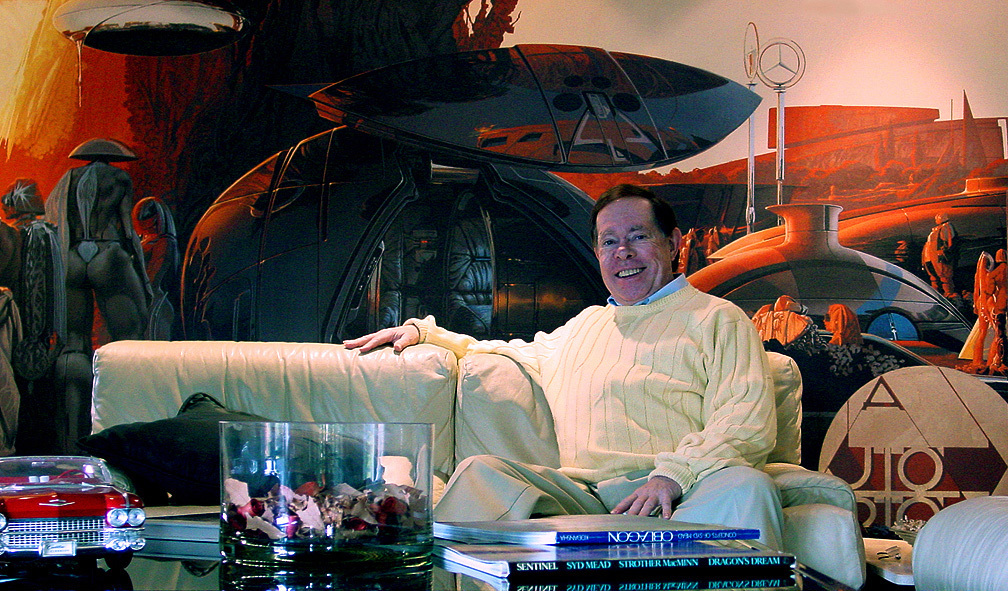
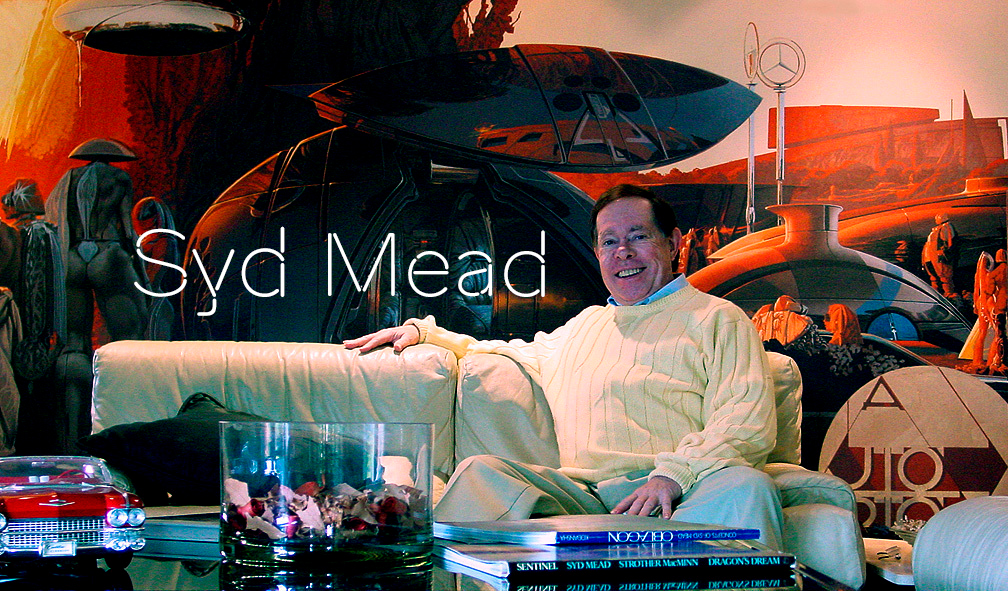
literally cat

diff --git a/assets/css/style.css b/assets/css/style.css
@@ -145,44 +145,16 @@
 
 /* Gallery */
 
-.gallerymain {
-    border-color: gray;
-    border-width: 1px;
-    border-style: solid;
-    top: 35px;
-    left: 1%;
-    width: 97.6%;
-    height: 27%;
-    border-radius: 10px;
-    background-color: #303030;
-    box-shadow: -12px -6px 30px 7px rgba(199, 199, 199, 0.25), 21px 24px 36px #343232, inset 0px 0px 45px 20px rgba(0, 0, 0, 0.25);
-    flex-direction: column;
+.row {
+    align-items: grid;
     display: flex;
+    flex-direction: row;
 }
 
-.gallerylabel {
-    background-color: transparent;
-    left: 10%;
-    top: 10%;
-    transform: translate(-50%, -50%);
-    font-family: Josefin Sans, Tahoma, Geneva, Verdana, sans-serif;
-    font-style: normal;
-    font-weight: 300;
-    color: white;
-    font-size: 50px;
-}
-
-.grid-container {
-    display: grid;
-    grid-template-columns: auto auto auto;
-    top: 15%;
-    left: 2.5%;
-}
-
-.grid-item {
-    border: 10px solid #303030;
-    background-color: #303030;
-    transition: all .25s;
+.column {
+    align-items: grid;
+    display: flex;
+    flex-direction: column;
 }
 
 .grid-item:hover {
@@ -222,17 +194,17 @@
     right: auto;
     top: auto;
     bottom: auto;
-    margin-left: auto;
+    margin: auto;
+    margin-left: 2%;
+    margin-right: 2%;
+    font-weight: 300;
     font-family: Josefin Sans, Tahoma, Geneva, Verdana, sans-serif;
     color: white;
-    font-size: 20px;
+    font-size: 41px;
 }
 
 .picture1 {
-    z-index: 800;
     background-color: #303030;
-    width: 100%;
-    height: 114%;
     background-image: sydmead2;
     display: flex;
     flex-direction: column;
@@ -245,7 +217,8 @@
     font-size: 60px;
     text-align: center;
     left: 50%;
-    margin-left: 50%;
+    margin-left: 70%;
+    align: grid;
 }
 
 .container10 {
@@ -283,6 +256,26 @@
     .saavutusedd {
         font-size: 36px;
         text-align: center;
+    }
+    .introduction {
+        background-color: transparent;
+        left: auto;
+        right: auto;
+        top: auto;
+        bottom: auto;
+        margin: auto;
+        margin-left: 2%;
+        margin-right: 2%;
+        font-weight: 300;
+        font-family: Josefin Sans, Tahoma, Geneva, Verdana, sans-serif;
+        color: white;
+        font-size: 20px;
+    }
+    .picture1 {
+        background-color: #303030;
+        background-image: sydmead2;
+        display: flex;
+        flex-direction: column;
     }
 }
 
